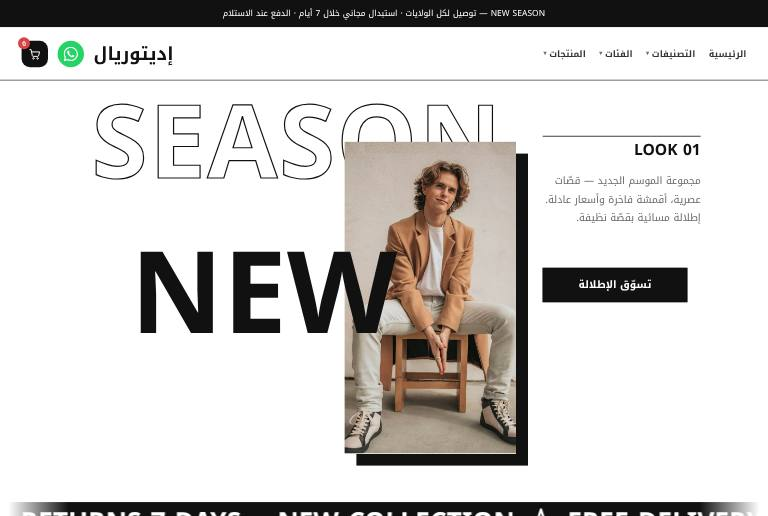
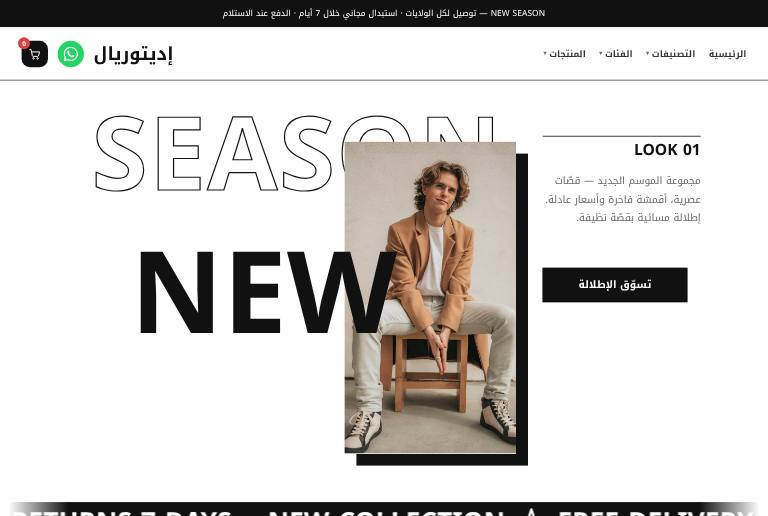
s-fashion: إزاحة كلمة SEASON 20px لأسفل (تحرير الترويسة بالفأرة) + بيان تنظيف ملفات البائع وخطة معالجة المواقع القديمة
Claude-Session: https://claude.ai/code/session_0141cZSU8KsZF3m8G44FMnJF

Changed region(s): [[0.125, 0.186, 0.625, 0.3721], [0.3438, 0.9922, 0.9688, 1.0], [0.0, 0.9922, 0.3125, 1.0]]

diff --git a/scripts/legacy-owner-files-manifest.py b/scripts/legacy-owner-files-manifest.py
@@ -1,0 +1,16 @@
+#!/usr/bin/env python3
+"""يولّد بيان «ملفات البائع» (shared-files.json: owner_only) بمسار + sha256 + حجم لكل ملف، لاستعماله في تنظيف مواقع عملاء سبق أن استلموا حزم تحديث تحمل ملفات أليسوم:
+  python3 scripts/legacy-owner-files-manifest.py [--out dist/owner-files-manifest.json]
+يُحذف/يُنقل عند العميل فقط ما كان **مطابقاً بايتاً** لنسخة البائع (sha256) فلا يُمسّ ملف يخصّ التاجر بالاسم نفسه. لا يحذف شيئاً بنفسه."""
+import argparse, hashlib, json, os, pathlib
+ROOT = pathlib.Path(__file__).resolve().parent.parent
+ap = argparse.ArgumentParser(); ap.add_argument("--out", default=""); a = ap.parse_args()
+own = json.loads((ROOT / "shared-files.json").read_text(encoding="utf-8"))["owner_only"]
+files = []
+for rel in own["files"]:
+    p = ROOT / rel
+    if p.exists(): files.append({"path": rel, "sha256": hashlib.sha256(p.read_bytes()).hexdigest(), "size": p.stat().st_size})
+out = {"_doc": "ملفات خاصة بمتجر البائع: تُزال من مواقع العملاء إن طابق sha256 نسخة البائع. لا تتضمن index.json (يُستبدل بالتحديث).", "template_ids": own["template_ids"], "files": files}
+txt = json.dumps(out, ensure_ascii=False, indent=1)
+if a.out: (ROOT / a.out).parent.mkdir(parents=True, exist_ok=True); (ROOT / a.out).write_text(txt, encoding="utf-8"); print(len(files), "ملفاً →", a.out)
+else: print(txt)

diff --git a/scripts/gen-templates-batch1.py b/scripts/gen-templates-batch1.py
@@ -242,7 +242,7 @@ thf = TH(k, False, INK, GRY, INK, "#7c3aed", "#ffffff", WH, GR,
          accfx=[accfx("#ffffff", "#111111", 0)],
          tsfx=[FX("رأي مربّع", "selector .pb-ts{background:#fff!important;border:1px solid #111;border-radius:0;box-shadow:8px 8px 0 #111}"), lift(".pb-ts", "rgba(0,0,0,.2)", -6)])
 f_hero_free = [
-    FR("heading", V(0, 3, 3), V(40, 24, 24), V(68, 94, 94), None, 1, text="SEASON", tag="div", fs=V(170, 62, 120), fw="900", ta={"d": "start"}, color="transparent", lh={"d": 1}, fxs=[outlinetext(INK, 2)], **anim("slideStart", 1)),
+    FR("heading", V(0, 3, 3), V(60, 24, 24), V(68, 94, 94), None, 1, text="SEASON", tag="div", fs=V(170, 62, 120), fw="900", ta={"d": "start"}, color="transparent", lh={"d": 1}, fxs=[outlinetext(INK, 2)], **anim("slideStart", 1)),
     FR("image", V(44, 22, 30), V(120, 110, 150), V(26, 56, 40), V(520, 327, 492), 3, src=IMG("fashion_man"), alt="موديل بإطلالة مسائية", fit="cover", hauto=False,
        fxs=[FX("كتلة سوداء مزاحة", "selector{box-shadow:20px 20px 0 #111;overflow:hidden}selector .pb-im{object-fit:cover;width:100%;height:100%;object-position:[[p]];transition:transform 1.2s cubic-bezier(.2,.8,.2,1)}selector:hover .pb-im{transform:scale(1.04)}", p=("نقطة التركيز (س% ص%)", "text", "50% 50%"))], **anim("fadeUp", .9, .1)),
     FR("heading", V(8, 6, 6), V(290, 460, 640), V(44, 70, 60), None, 5, text="NEW", tag="h1", fs=V(190, 84, 130), fw="900", ta={"d": "start"}, color=INK, lh={"d": .9}, **anim("slideStart", .9, .2)),

diff --git a/docs/library-review/LEGACY-SITES-CLEANUP.md b/docs/library-review/LEGACY-SITES-CLEANUP.md
@@ -1,0 +1,28 @@
+# خطة معالجة المواقع التي استلمت ملفات أليسوم (حزم تحديث يدوية قديمة)
+
+**لا تنفيذ فيها قبل موافقتك.** لا تغيير على `s-alyssum`، ولا دمج، ولا `VERSION`.
+
+## 1) نطاق التعرّض (ما تحقّقتُ منه)
+- ملفات البائع دخلت قائمة `shared` أول مرة في **v1.89.522 (2026-10-24)** (`s-alyssum.json` وصور `alyssum-*` وCSS الجلد)، و`focus-honey.json` في التزام لاحق. أي حزمة **تحديث يدوي** (`make-template --update`) بُنيت من `main` بعد ذلك التاريخ وسُلِّمت لعميل قد تحملها.
+- **القناة البعيدة** `releases/1.0.2` و`1.0.3` (أكتوبر): 9 ملفات فقط لكل منهما، بلا قوالب ولا صور → لا تعرّض عبرها.
+- **حزمة التثبيت** لا تحوي القوالب ولا `assets/img/tpl` أصلاً → لا تعرّض عبرها.
+- ما يصل العميل هو **ملفات** (قالب، صور، CSS، معاينات) فيها رقم المالك واسم العلامة؛ لا بيانات طلبات ولا أسرار. الأثر: ظهور قالب أليسوم في مكتبة المحرّر عند العميل، وبقاء الرقم في ملف القالب إن ثُبّت.
+
+## 2) ما يحدث تلقائياً الآن
+عند تحديث كود لوحة العميل بهذا الإصدار: (أ) `index.json` الجديد بلا `s-alyssum`؛ (ب) حارس `AdminNav` يخفي أي عنصر `owner:true`؛ فالقالب لا يظهر في المكتبة. **الملفات نفسها تبقى على الاستضافة** (المحدِّث لا يحذف، ويرفض أي ملف خارج `shared`).
+
+## 2ب) خطوات الخطة (مقترحة، بالترتيب)
+1. **جرد:** قائمة العملاء الذين سُلِّمت لهم حزم تحديث يدوية بعد 2026-10-24 (من سجلّك؛ لا يمكنني استنتاجها من المستودع).
+2. **بيان التنظيف:** `python3 scripts/legacy-owner-files-manifest.py --out <ملف>` (أُضيف الآن؛ لا يحذف شيئاً) يولّد 45 ملفاً (≈1.8MB) بمسار وsha256 وحجم لكل ملف من `owner_only`.
+3. **أداة تنظيف عند العميل (للتنفيذ بعد موافقتك):** سكربت PHP يعمل مرة واحدة بصلاحية المدير ويحذف نفسه (على نمط `update.php`): وضع **معاينة** افتراضي يسرد ما سيُزال؛ ثم وضع تنفيذ يعمل بقاعدتين: **لا يمسّ إلا ملفاً مطابقاً بايتاً (sha256) لنسخة البائع** (فلا يُمسّ ملف للتاجر بالاسم نفسه)، و**ينقل** الملف إلى `api/_data/removed-owner-files-<تاريخ>/` بدل الحذف النهائي (يمكن التراجع). يُسلَّم مع حزمة التحديث التالية لهؤلاء العملاء فقط.
+4. **فحص بعد التنظيف:** نفس `library-review`/`package-audit` على موقع العميل: لا ملف `s-alyssum*` ولا `alyssum-*` ولا `focus-honey*`، والمكتبة تعمل.
+5. **إن كان القالب قد ثُبّت فعلاً عند عميل:** صفحته الرئيسية المنشورة تحمل رقمك ونصوصك داخل `index.html`/`assets/pages/_conv`؛ الأداة لا تعالجها (محتوى التاجر)؛ يُخبَر العميل ليراجع التذييل والأرقام يدوياً (أو نوفّر نصاً جاهزاً له).
+6. **منع التكرار:** `package-audit.py` في بوابة كل إصدار (قائم)، ولا حزم يدوية إلا من `make-template` بعد نجاحه.
+
+## 3) المخاطر وكيف تُخفَّف
+| الخطر | التخفيف |
+|---|---|
+| حذف ملف يخصّ التاجر | مطابقة sha256 ونقل لا حذف |
+| كسر مكتبة العميل | القوالب الأخرى لا تعتمد على ملفات البائع (فحص الصور داخل الحزمة ناجح) |
+| عميل لم يحدّث الكود | الأداة تُسلَّم مع الكود المحدَّث؛ الحارس يعمل بتحديث الكود وحده |
+| عدم معرفة من استلم ماذا | الجرد (البند 1)؛ وفي الشك تُعامل كل المواقع المحدَّثة يدوياً بعد 2026-10-24 كمتأثرة |
